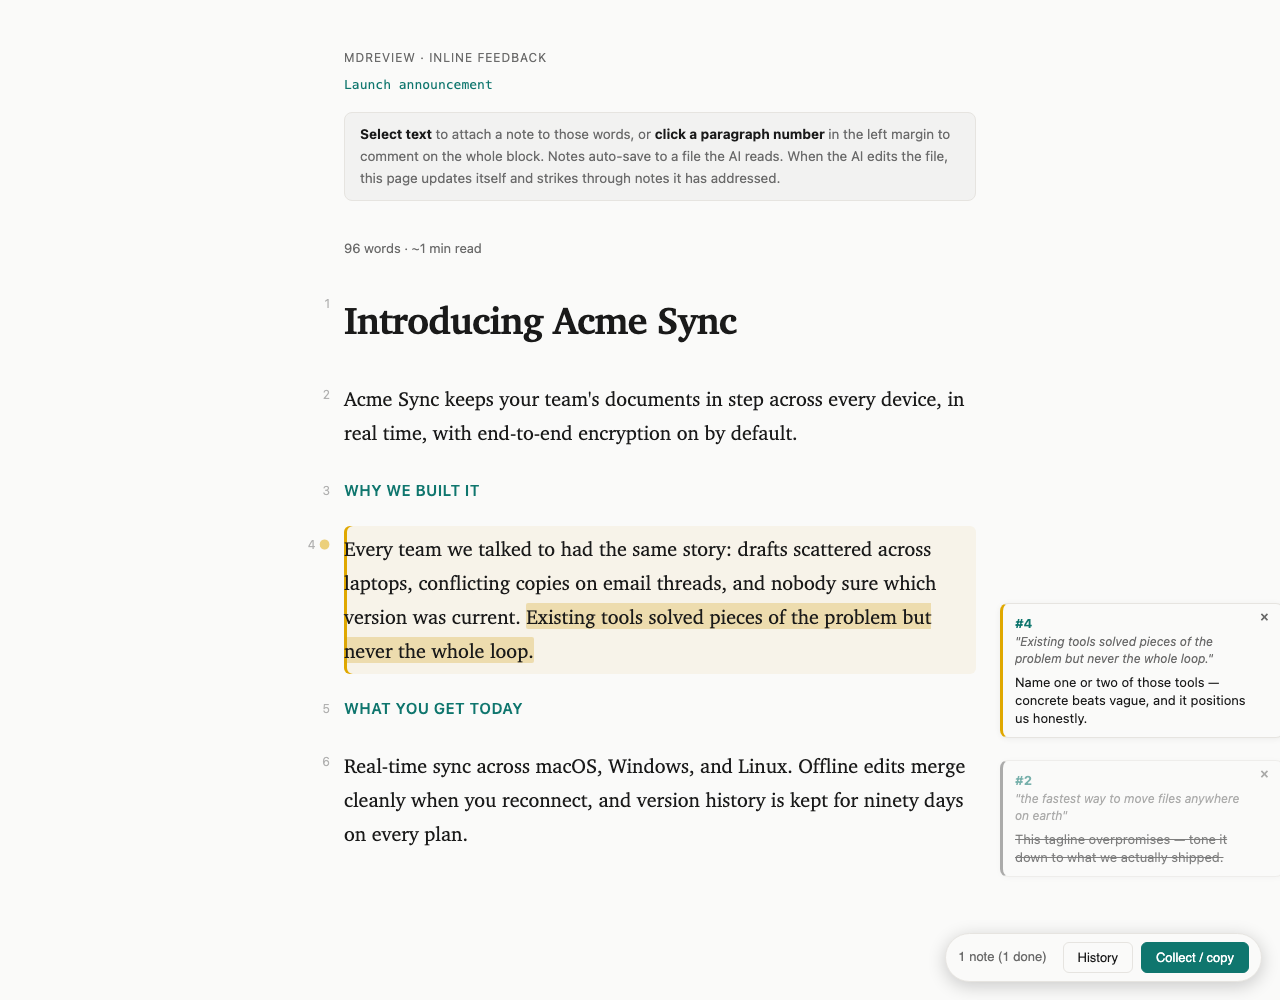
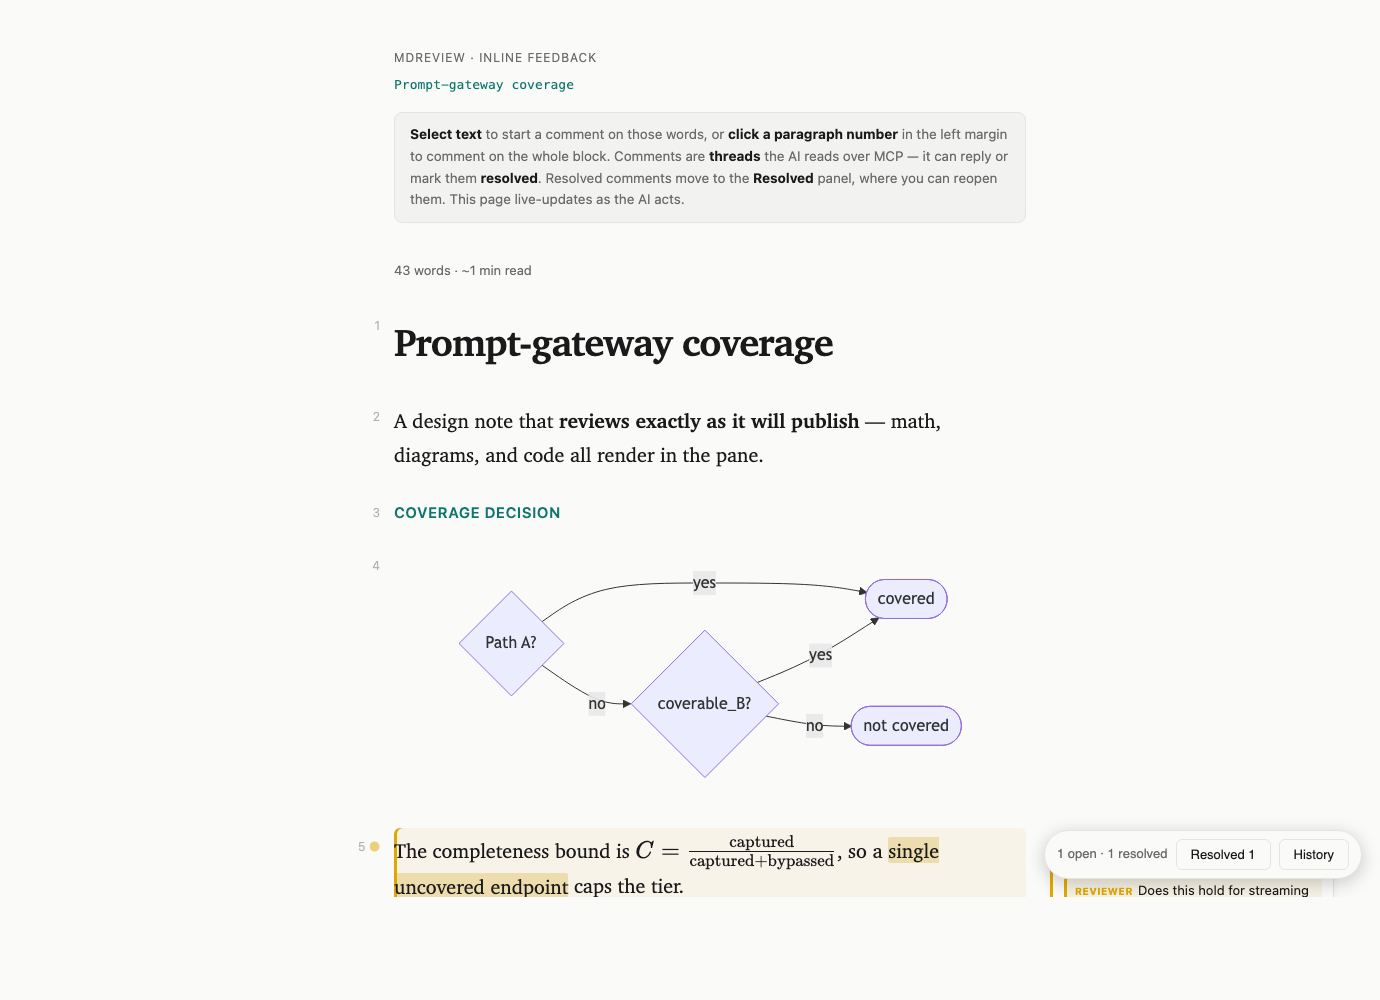
docs(site): refresh landing page for the evolved tool
The page still described the original margin-notes model + a generic "Speaks
MCP". Update to what mdreview is now:
- hero + contract: threaded comments (open->resolved->reopened), agent reads/
  replies/resolves over HTTP or MCP.
- new "Renders like it'll publish" section: math/Mermaid/footnotes/highlighted
  code/images.
- "Speaks MCP — 18 tools": the comment workflow, image attach by path,
  server_info for staleness.
- fresh demo.png: a rendered Mermaid diagram + KaTeX math + a live comment
  thread (replaces the old margin-note shot).

Source only; not yet published to gh-pages.

diff --git a/site/index.html b/site/index.html
@@ -4,7 +4,7 @@
 <meta charset="utf-8">
 <meta name="viewport" content="width=device-width, initial-scale=1">
 <title>mdreview — human-in-the-loop markdown review for AI agents</title>
-<meta name="description" content="An agent POSTs markdown, a human annotates it in the browser, the agent polls the feedback and pushes revisions. One containerized service, many isolated reviews. Speaks HTTP and MCP.">
+<meta name="description" content="An agent POSTs markdown, a human leaves threaded comments in the browser, the agent reads them over HTTP or MCP, replies, resolves, and pushes revisions. Math, diagrams, and code render as they'll publish. One containerized service, many isolated reviews. 18 MCP tools.">
 <link rel="canonical" href="https://mdreview.waqasrana.space/">
 <style>
   :root{--bg:#fafaf9;--text:#1a1a1a;--muted:#6b6b6b;--accent:#0f766e;--rule:#e6e4e0;--noteline:#d4a017;--card:#fff;}
@@ -53,9 +53,11 @@
     <p class="brand">mdreview</p>
     <h1>Your agent writes the draft.<br>A human <em>reviews</em> it.</h1>
     <p class="what">mdreview is <strong>a containerized markdown review microservice</strong>: an
-    agent POSTs markdown, hands a human the returned URL, and polls feedback over HTTP while the
-    human annotates in the browser. One service handles any number of concurrent reviews, each
-    isolated by id — no shared files, no process juggling.</p>
+    agent POSTs markdown, hands a human the returned URL, and the human marks it up in the browser —
+    highlighting text into <strong>threaded comments</strong>. The agent reads those comments over
+    HTTP or MCP, replies, <strong>resolves</strong> them, and pushes revisions. Math, diagrams, and
+    code <strong>render as they'll publish</strong>. One service handles any number of concurrent
+    reviews, each isolated by id — no shared files, no process juggling.</p>
     <div class="ctas">
       <a class="btn primary" href="https://github.com/waqaskhan137/mdreview-service">View on GitHub</a>
       <a class="btn" href="#run-it">Run it locally</a>
@@ -66,12 +68,24 @@
     <h2>The review loop</h2>
     <figure>
       <div class="frame">
-        <img class="demo-img" src="demo.png" width="1280" height="1000"
-             alt="The mdreview viewer mid-review: a rendered markdown draft with a reviewer's margin note attached to a paragraph, and an earlier note shown struck through because the agent's revision already addressed it.">
+        <img class="demo-img" src="demo.png" width="1380" height="1000"
+             alt="The mdreview viewer mid-review: a markdown draft rendered with a Mermaid decision-flow diagram, a KaTeX equation, and syntax-highlighted code, plus a reviewer's highlighted phrase opening a margin comment thread and a 'Resolved' panel toggle.">
       </div>
-      <figcaption>A human annotates &rarr; the agent applies the edits and pushes a revision &rarr;
-      the page live-reloads and <span class="strike">addressed notes strike through</span>.</figcaption>
+      <figcaption>A human highlights text &rarr; a <strong>comment thread</strong>; the agent reads it
+      over MCP, replies, and <strong>resolves</strong> it (resolved threads move to the Resolved
+      panel). Math, Mermaid diagrams, and code render inline — the draft reviews as it ships.</figcaption>
     </figure>
+  </section>
+
+  <section class="render">
+    <h2>Renders like it'll publish</h2>
+    <p>The viewer renders the draft the way a Jekyll/MathJax site does, so a math- or diagram-heavy
+    draft reviews exactly as it will ship — not as raw markup:</p>
+    <p class="more"><strong>LaTeX math</strong> (<code>$…$</code> / <code>$$…$$</code>) &middot;
+    <strong>Mermaid diagrams</strong> (<code>```mermaid</code>) &middot;
+    <strong>GFM footnotes</strong> &middot; <strong>syntax-highlighted</strong> fenced code &middot;
+    <strong>images</strong> (attach once — they survive every revision). The MCP tools tell the agent
+    to author <em>to</em> this — a flow or decision tree as a Mermaid diagram, not ASCII art.</p>
   </section>
 
   <section class="curl-flow">
@@ -82,12 +96,14 @@ curl -X POST $BASE/api/reviews -d '{"title":"My draft","markdown":"# My draft\n.
 
 <span class="c"># 2 — hand review_url to a human; they annotate in the browser</span>
 
-<span class="c"># 3 — poll the feedback</span>
-curl $BASE/api/reviews/$id/feedback
+<span class="c"># 3 — read the threaded comments the human raised</span>
+curl $BASE/api/reviews/$id/comments?status=open
+<span class="out">     &rarr; reply to discuss, or resolve once you've addressed it</span>
 
 <span class="c"># 4 — apply the edits, push the revision (their page live-reloads)</span>
 curl -X PUT $BASE/api/reviews/$id/source -d '{"markdown":"# My draft\n...tightened..."}'</pre>
-    <p class="more">Every revision snapshots a history round, so earlier drafts and their feedback
+    <p class="more">Comments carry an <code>open &rarr; resolved &rarr; reopened</code> state machine the
+    service enforces; every revision snapshots a history round, so earlier drafts and their feedback
     stay recoverable. Full API table in the
     <a href="https://github.com/waqaskhan137/mdreview-service#api">README</a>.</p>
   </section>
@@ -102,10 +118,14 @@ curl -X PUT $BASE/api/reviews/$id/source -d '{"markdown":"# My draft\n...tighten
     </section>
 
     <section class="mcp">
-      <h2>Speaks MCP</h2>
-      <p>A thin, stdlib-only stdio MCP server (JSON-RPC&nbsp;2.0) ships in the repo, exposing the
-      review API as first-class tools — so an MCP-speaking agent plugs in without hand-rolling
-      HTTP. It wraps the running service and adds no state.</p>
+      <h2>Speaks MCP — 18 tools</h2>
+      <p>A thin, stdlib-only stdio MCP server (JSON-RPC&nbsp;2.0) ships in the repo as
+      <strong>18 first-class tools</strong>, so an MCP agent plugs in and self-serves without
+      hand-rolling HTTP: the review loop (<code>create_review</code> / <code>get_source</code> /
+      <code>update_source</code>), the full <strong>comment workflow</strong> (list / reply / resolve /
+      author / delete), image attach <strong>by path</strong> (no base64 through the model's context),
+      and <code>server_info</code> for staleness detection. It wraps the running service and adds no
+      state.</p>
       <p class="more">Tools and client config in the
       <a href="https://github.com/waqaskhan137/mdreview-service#mcp-server-optional">README</a>.</p>
     </section>
